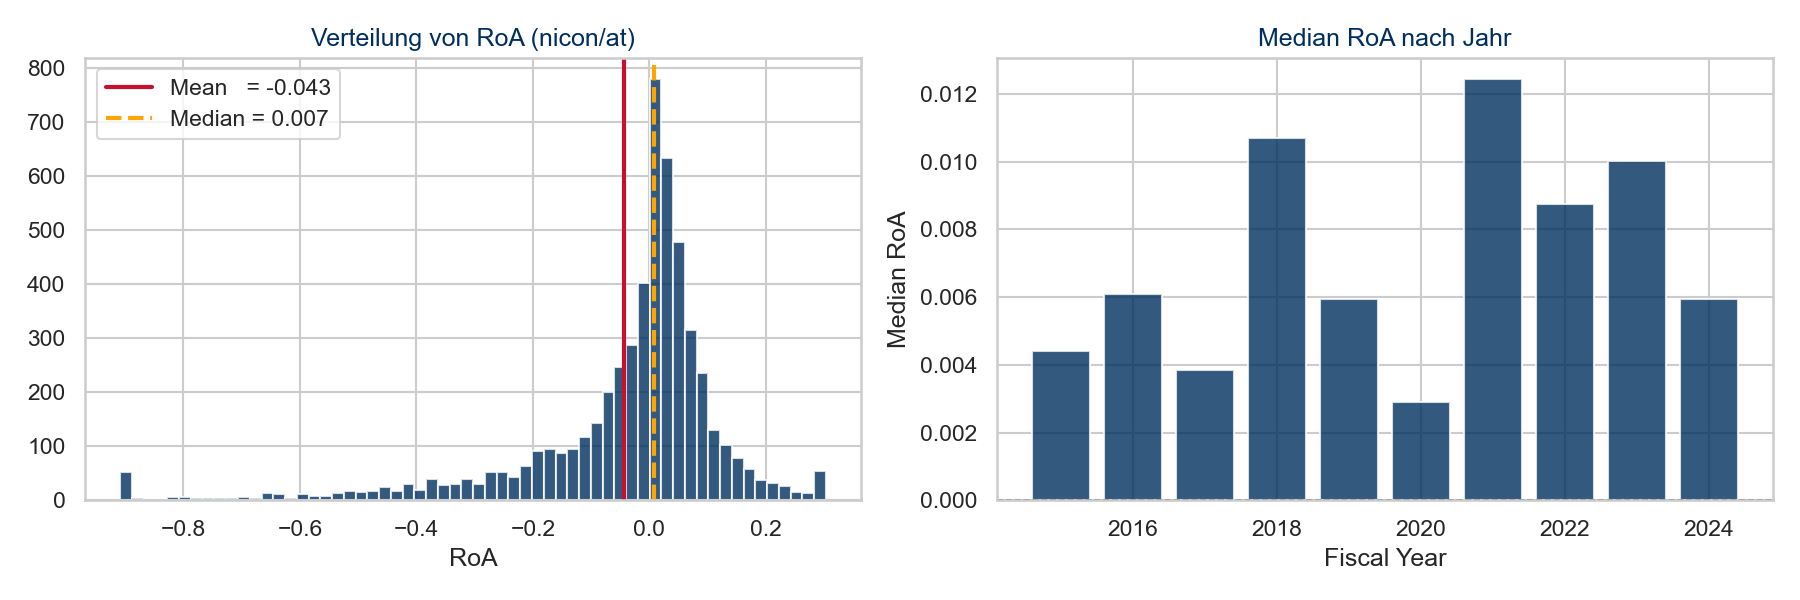
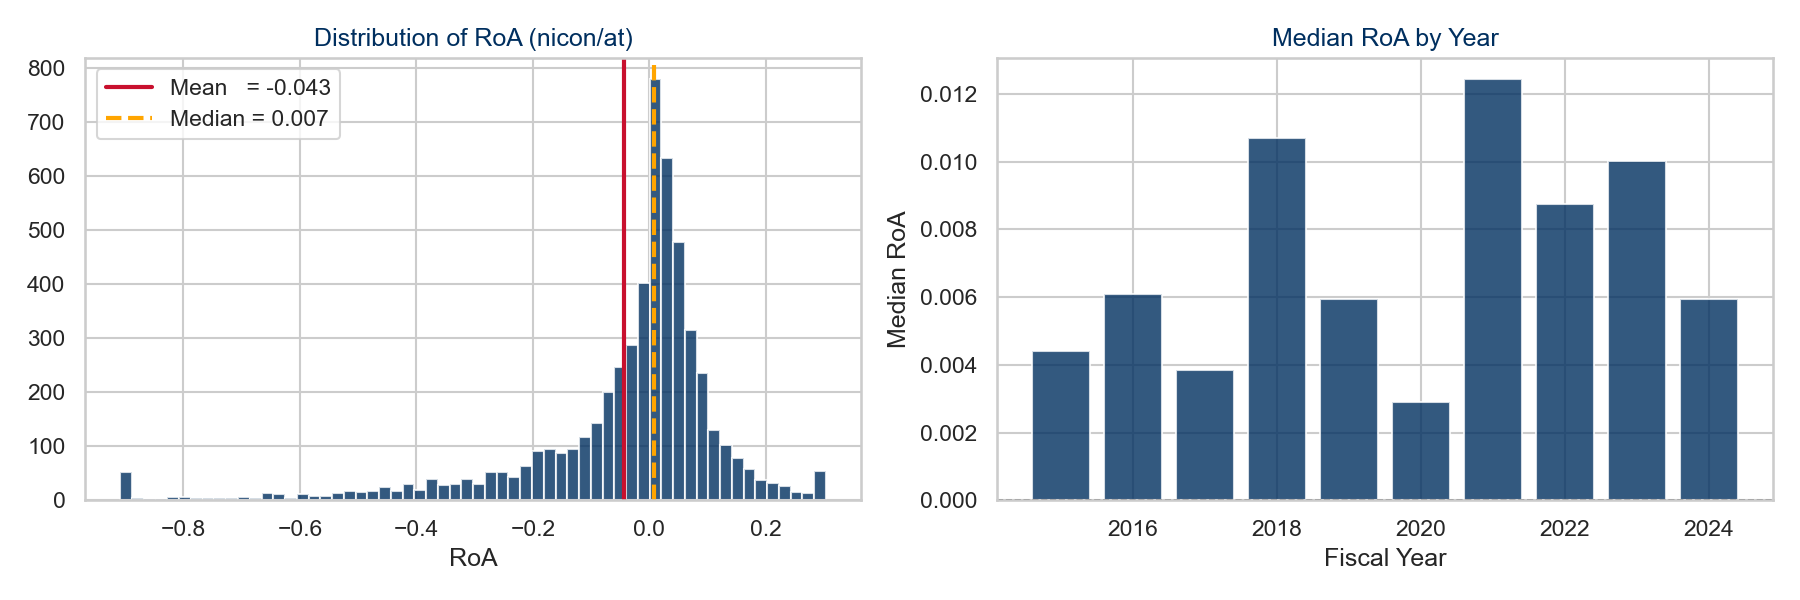
translate figure labels to English for consistency with research note

Changed region(s): [[0.1556, 0.03, 0.3733, 0.09], [0.6844, 0.03, 0.84, 0.09]]

diff --git a/code/03_descriptives.py b/code/03_descriptives.py
@@ -178,7 +178,7 @@ mask = np.triu(np.ones_like(corr, dtype=bool))
 sns.heatmap(corr, mask=mask, annot=True, fmt=".2f",
             cmap="RdYlBu_r", center=0, vmin=-1, vmax=1,
             linewidths=0.5, ax=ax, cbar_kws={"shrink": 0.8})
-ax.set_title("Korrelationsmatrix — Forschungsvariablen (Europäische KMU)",
+ax.set_title("Correlation Matrix — Research Variables (European SMEs)",
              fontsize=13, color=WU_BLUE)
 fig.tight_layout()
 fig.savefig(FIG_PATH / "correlation_matrix.png", dpi=150)
@@ -193,7 +193,7 @@ axes[0].axvline(df["roa"].mean(),   color=WU_RED,   lw=2,
 axes[0].axvline(df["roa"].median(), color="orange", lw=2, ls="--",
                 label=f"Median = {df['roa'].median():.3f}")
 axes[0].set_xlabel("RoA")
-axes[0].set_title("Verteilung von RoA (nicon/at)", color=WU_BLUE)
+axes[0].set_title("Distribution of RoA (nicon/at)", color=WU_BLUE)
 axes[0].legend()
 
 yearly = df.groupby("fyear")["roa"].median()
@@ -201,7 +201,7 @@ axes[1].bar(yearly.index, yearly.values, color=WU_BLUE, alpha=0.8)
 axes[1].axhline(0, color="black", lw=0.8, ls="--")
 axes[1].set_xlabel("Fiscal Year")
 axes[1].set_ylabel("Median RoA")
-axes[1].set_title("Median RoA nach Jahr", color=WU_BLUE)
+axes[1].set_title("Median RoA by Year", color=WU_BLUE)
 fig.tight_layout()
 fig.savefig(FIG_PATH / "dv_distribution.png", dpi=150)
 plt.close()
@@ -220,16 +220,16 @@ bm   = df_rd.groupby(bins, observed=True)[["rd_intensity","roa"]].mean()
 axes[0].plot(bm["rd_intensity"], bm["roa"],
              color=WU_RED, lw=2.5, label="Bin mean")
 axes[0].axhline(0, color="gray", lw=0.8, ls="--")
-axes[0].set_xlabel("R&D Intensität (xrd/at)")
+axes[0].set_xlabel("R&D Intensity (xrd/at)")
 axes[0].set_ylabel("RoA")
-axes[0].set_title("R&D Intensität vs. RoA\n(nur Firmen mit R&D > 0)", color=WU_BLUE)
+axes[0].set_title("R&D Intensity vs. RoA\n(R&D-active firms only)", color=WU_BLUE)
 axes[0].legend()
 
 # Right: median RoA by firm size bin — No R&D vs Has R&D
 df_plot["rd_group"]  = np.where(df_plot["rd_intensity"] == 0,
-                                "Kein R&D (xrd=0)", "Hat R&D (xrd>0)")
+                                "No R&D (xrd=0)", "Has R&D (xrd>0)")
 df_plot["size_bin"]  = pd.cut(df_plot["ln_at"], bins=10)
-palette2 = {"Kein R&D (xrd=0)": "#2166ac", "Hat R&D (xrd>0)": WU_RED}
+palette2 = {"No R&D (xrd=0)": "#2166ac", "Has R&D (xrd>0)": WU_RED}
 for label, group in df_plot.groupby("rd_group", observed=True):
     g  = group.reset_index(drop=True)
     bm = g.groupby("size_bin", observed=True)[["ln_at","roa"]].median()
@@ -237,13 +237,13 @@ for label, group in df_plot.groupby("rd_group", observed=True):
                  label=label, color=palette2[label],
                  marker="o", markersize=5)
 axes[1].axhline(0, color="gray", lw=0.8, ls="--")
-axes[1].set_xlabel("Firmengröße (log assets)")
+axes[1].set_xlabel("Firm Size (log assets)")
 axes[1].set_ylabel("Median RoA")
-axes[1].set_title("Median RoA nach Firmengröße:\nKein R&D vs Hat R&D",
+axes[1].set_title("Median RoA by Firm Size:\nNo R&D vs Has R&D",
                   color=WU_BLUE)
 axes[1].legend()
 
-fig.suptitle("Hauptzusammenhang: R&D Intensität → RoA (Europäische KMU)",
+fig.suptitle("Main Relationship: R&D Intensity → RoA (European SMEs)",
              fontsize=13, color=WU_BLUE, y=1.02)
 fig.tight_layout()
 fig.savefig(FIG_PATH / "main_relationship.png", dpi=150, bbox_inches="tight")
